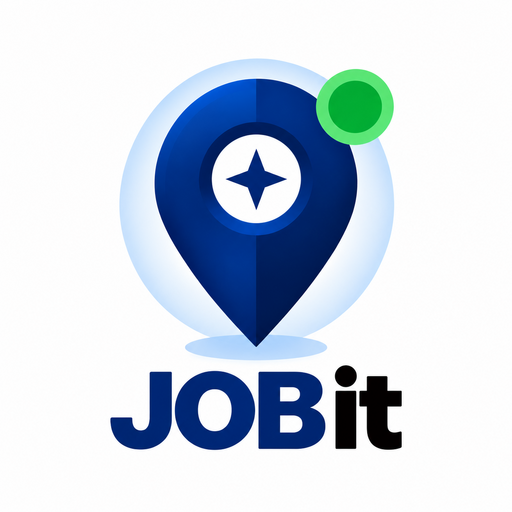
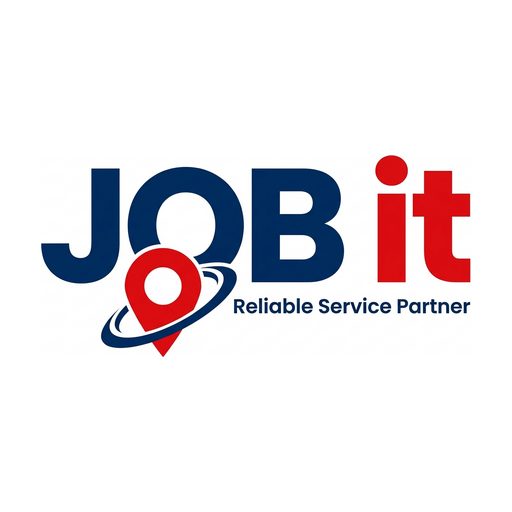
feat: update branding and add chat booking state
- Update site logo assets and JobitLogo component
- Add activeChatBooking state to App component

diff --git a/src/components/brand/JobitLogo.jsx b/src/components/brand/JobitLogo.jsx
@@ -34,198 +34,71 @@ export function JobitLogo({
   };
 
   // If raster image variant is requested
-  if (variant === 'image') {
-    const dim = typeof size === 'number' ? size : (sizeMap[size]?.width || 160);
+  if (variant === 'image' || variant === 'full') {
+    const dim = typeof size === 'number' ? size : (sizeMap[size]?.width || 200);
     return (
       <div 
-        className={`inline-flex items-center justify-center bg-white rounded-2xl overflow-hidden select-none ${className}`}
-        style={{ width: dim, height: dim }}
+        className={`inline-flex items-center justify-center bg-white rounded-2xl overflow-hidden select-none ${onClick ? 'cursor-pointer' : ''} ${className}`}
+        style={{ width: dim, maxWidth: '100%' }}
         onClick={onClick}
       >
         <img
-          src="/apple-touch-icon.png?v=2"
-          alt="JOBit - Reliable Local Services"
-          className="w-full h-full object-contain p-1"
+          src="/jobit-logo.png?v=3"
+          alt="JOBit - Reliable Service Partner"
+          className="w-full h-auto object-contain"
           referrerPolicy="no-referrer"
-          onError={(e) => {
-            // Fallback to jobit-logo.png or SVG if image fails
-            if (e.currentTarget.src.includes('apple-touch-icon')) {
-              e.currentTarget.src = '/jobit-logo.png?v=2';
-            } else {
-              e.currentTarget.style.display = 'none';
-            }
-          }}
         />
       </div>
     );
   }
 
-  // Text only variant (clean official JOBit typography without pinned marks)
+  // Mark / Icon only variant
+  if (variant === 'mark' || variant === 'compact') {
+    const dim = typeof size === 'number' ? size : (sizeMap[size]?.width || 44);
+    return (
+      <div 
+        className={`inline-flex items-center justify-center bg-white rounded-xl overflow-hidden select-none shrink-0 ${onClick ? 'cursor-pointer' : ''} ${className}`}
+        style={{ width: dim, height: dim }}
+        onClick={onClick}
+      >
+        <img
+          src="/apple-touch-icon.png?v=3"
+          alt="JOBit Icon"
+          className="w-full h-full object-contain p-0.5"
+          referrerPolicy="no-referrer"
+        />
+      </div>
+    );
+  }
+
+  // Text only variant
   if (variant === 'text') {
     return (
       <div 
         className={`inline-flex items-center select-none font-sans font-black tracking-tight ${onClick ? 'cursor-pointer' : ''} ${className}`}
         onClick={onClick}
       >
-        <span className="text-[#0B172E]">JOB</span>
-        <span className="text-[#D32F2F] ml-0.5">it</span>
+        <span className="text-[#0B2559]">JOB</span>
+        <span className="text-[#E50914] ml-0.5">it</span>
       </div>
     );
   }
 
-  // Horizontal variant (for App Header / Navigation bars)
-  if (variant === 'horizontal') {
-    return (
-      <div 
-        className={`inline-flex items-center gap-2.5 select-none ${onClick ? 'cursor-pointer' : ''} ${className}`}
-        onClick={onClick}
-      >
-        {/* Stacked Mini Mark: Red Location Pin + Navy Square */}
-        <div className="relative w-9 h-9 flex items-center justify-center shrink-0">
-          <svg viewBox="0 0 100 100" className="w-full h-full">
-            {/* Top Red Pin */}
-            <path d="M50 4 C40 4 32 12 32 21 C32 33 50 48 50 48 C50 48 68 33 68 21 C68 12 60 4 50 4 Z" fill="#D32F2F" />
-            <circle cx="50" cy="18" r="6" fill="#FFFFFF" />
-
-            {/* Navy Square below pin */}
-            <rect x="25" y="42" width="50" height="50" rx="10" fill="#0B172E" />
-            
-            {/* Minimal Service Icon Accents inside */}
-            {/* Spanner/hand hint */}
-            <path d="M38 58 L54 74 M54 58 L38 74" stroke="#FFFFFF" strokeWidth="3" strokeLinecap="round" />
-            <circle cx="50" cy="66" r="3" fill="#D32F2F" />
-          </svg>
-        </div>
-
-        {/* Text */}
-        <div className="flex flex-col leading-none">
-          <div className="flex items-baseline font-extrabold tracking-tight">
-            <span className="text-[#0B172E] text-lg font-black font-sans">JOB</span>
-            <span className="text-[#D32F2F] text-lg font-black font-sans ml-0.5">it</span>
-          </div>
-          {showTagline && (
-            <span className="text-[9px] font-bold text-[#0B172E] tracking-tight mt-0.5 opacity-90">
-              Reliable Local Services
-            </span>
-          )}
-        </div>
-      </div>
-    );
-  }
-
-  // Pure SVG Full Vector Logo (Razor Sharp, Infinite Scaling)
-  const baseDim = typeof size === 'number' ? size : (sizeMap[size]?.width || 220);
-
+  // Horizontal variant (for App Header / Navigation bars / Welcome Screen Badge)
   return (
     <div 
-      className={`inline-flex flex-col items-center justify-center p-3 bg-white rounded-3xl select-none ${onClick ? 'cursor-pointer' : ''} ${className}`}
-      style={{ width: baseDim, maxWidth: '100%' }}
+      className={`inline-flex items-center select-none ${onClick ? 'cursor-pointer' : ''} ${className}`}
       onClick={onClick}
     >
-      <svg 
-        viewBox="0 0 500 500" 
-        className="w-full h-auto drop-shadow-xs"
-        aria-label="JOBit - Reliable Local Services"
-      >
-        {/* Crisp Solid White Canvas Background */}
-        <rect width="500" height="500" fill="#FFFFFF" rx="28" />
-
-        {/* 1. VIBRANT DEEP RED LOCATION PIN */}
-        <g id="red-location-pin" transform="translate(250, 95)">
-          <path 
-            d="M0 -55 C-26 -55 -47 -34 -47 -8 C-47 24 0 62 0 62 C0 62 47 24 47 -8 C47 -34 26 -55 0 -55 Z" 
-            fill="#D32F2F" 
-          />
-          <circle cx="0" cy="-14" r="17" fill="#FFFFFF" />
-        </g>
-
-        {/* 2. CENTRAL NAVY BLUE SQUARED ICON BLOCK */}
-        <g id="navy-icon-block" transform="translate(180, 165)">
-          {/* High-contrast deep navy blue square */}
-          <rect x="0" y="0" width="140" height="140" rx="22" fill="#0B172E" />
-
-          {/* Unified White Service Silhouettes */}
-
-          {/* Hand gripping styled spanner */}
-          <g id="hand-spanner" transform="translate(70, 42)">
-            <path 
-              d="M-28 -14 C-25 -20 -18 -22 -12 -18 L-5 -12 L12 -24 C17 -27 24 -25 27 -20 C30 -15 28 -8 23 -5 L6 7 L12 14 C15 19 13 25 7 28 C2 30 -5 28 -8 24 Z" 
-              fill="#FFFFFF" 
-            />
-            <path 
-              d="M-12 -6 C-12 -10 -7 -12 -2 -11 C3 -10 6 -7 6 -3 C9 -3 13 -1 13 3 C14 7 11 11 8 13 L-10 13 C-13 13 -14 9 -14 5 C-14 1 -12 -3 -12 -6 Z" 
-              fill="#FFFFFF" 
-              stroke="#0B172E" 
-              strokeWidth="2" 
-            />
-            <rect x="-8" y="10" width="14" height="15" rx="3" fill="#FFFFFF" />
-          </g>
-
-          {/* Simple house silhouette with checkmark */}
-          <g id="house-silhouette" transform="translate(98, 48)">
-            <path d="M14 -12 L0 -24 L-14 -12 L-14 12 L14 12 Z" fill="#FFFFFF" />
-            <path d="M-16 -10 L0 -23 L16 -10" stroke="#0B172E" strokeWidth="2.5" fill="none" strokeLinecap="round" />
-            <path d="M-6 0 L-2 4 L8 -6" fill="none" stroke="#0B172E" strokeWidth="2.8" strokeLinecap="round" strokeLinejoin="round" />
-          </g>
-
-          {/* Lightning bolt with leaves */}
-          <g id="lightning-leaves" transform="translate(104, 102)">
-            <path d="M2 -22 L-8 -6 L-1 -6 L-6 8 L6 -4 L0 -4 Z" fill="#FFFFFF" />
-            <path d="M5 -1 C5 -8 13 -12 18 -10 C18 -4 13 2 5 -1 Z" fill="#FFFFFF" />
-            <path d="M7 4 C11 1 18 3 20 8 C15 11 9 9 7 4 Z" fill="#FFFFFF" />
-          </g>
-
-          {/* Water droplet with power symbol */}
-          <g id="water-power" transform="translate(70, 104)">
-            <path d="M0 -22 C-14 -6 -14 6 0 14 C14 6 14 -6 0 -22 Z" fill="#FFFFFF" />
-            <path d="M-5 -2 C-7 1 -6 6 -2 8 C2 10 7 8 8 4 C9 0 7 -4 4 -6" fill="none" stroke="#0B172E" strokeWidth="2" strokeLinecap="round" />
-            <line x1="0" y1="-5" x2="0" y2="1" stroke="#0B172E" strokeWidth="2" strokeLinecap="round" />
-          </g>
-
-          {/* Vertical ladder silhouette */}
-          <g id="ladder-silhouette" transform="translate(30, 84)">
-            <line x1="-9" y1="-38" x2="-9" y2="40" stroke="#FFFFFF" strokeWidth="3" strokeLinecap="round" />
-            <line x1="9" y1="-38" x2="9" y2="40" stroke="#FFFFFF" strokeWidth="3" strokeLinecap="round" />
-            <line x1="-9" y1="-28" x2="9" y2="-28" stroke="#FFFFFF" strokeWidth="2.5" />
-            <line x1="-9" y1="-14" x2="9" y2="-14" stroke="#FFFFFF" strokeWidth="2.5" />
-            <line x1="-9" y1="0" x2="9" y2="0" stroke="#FFFFFF" strokeWidth="2.5" />
-            <line x1="-9" y1="14" x2="9" y2="14" stroke="#FFFFFF" strokeWidth="2.5" />
-            <line x1="-9" y1="28" x2="9" y2="28" stroke="#FFFFFF" strokeWidth="2.5" />
-          </g>
-        </g>
-
-        {/* 3. TYPOGRAPHY: 'JOBit' (Deep Navy Blue 'JOB' and Vivid Red 'it') */}
-        <g id="brand-typography" transform="translate(250, 395)">
-          <text 
-            textAnchor="middle" 
-            fontFamily="'Outfit', 'Montserrat', 'Inter', -apple-system, sans-serif" 
-            fontWeight="900" 
-            fontSize="78" 
-            letterSpacing="-1"
-          >
-            <tspan fill="#0B172E">JOB</tspan>
-            <tspan dx="4" fill="#D32F2F">it</tspan>
-          </text>
-        </g>
-
-        {/* 4. DETAIL TEXT: 'Reliable Local Services' */}
-        {showTagline && (
-          <g id="tagline-typography" transform="translate(250, 435)">
-            <text 
-              textAnchor="middle" 
-              fontFamily="'Outfit', 'Montserrat', 'Inter', -apple-system, sans-serif" 
-              fontWeight="700" 
-              fontSize="16.5" 
-              fill="#0B172E" 
-              letterSpacing="0.4"
-            >
-              Reliable Local Services
-            </text>
-          </g>
-        )}
-      </svg>
+      <img
+        src="/jobit-logo.png?v=3"
+        alt="JOBit - Reliable Service Partner"
+        className="h-8 sm:h-9 w-auto max-w-[170px] object-contain"
+        referrerPolicy="no-referrer"
+      />
     </div>
   );
 }
 
 export default JobitLogo;
+

diff --git a/src/App.jsx b/src/App.jsx
@@ -107,6 +107,7 @@ function MainLayout() {
   const [searchModalOpen, setSearchModalOpen] = useState(false);
   const [searchQuery, setSearchQuery] = useState('');
   const [workers, setWorkers] = useState([]);
+  const [activeChatBooking, setActiveChatBooking] = useState(null);
   const [currentCity, setCurrentCity] = useState(() => {
     return localStorage.getItem('jobit_user_location') || 'Melattur, Kerala';
   });
